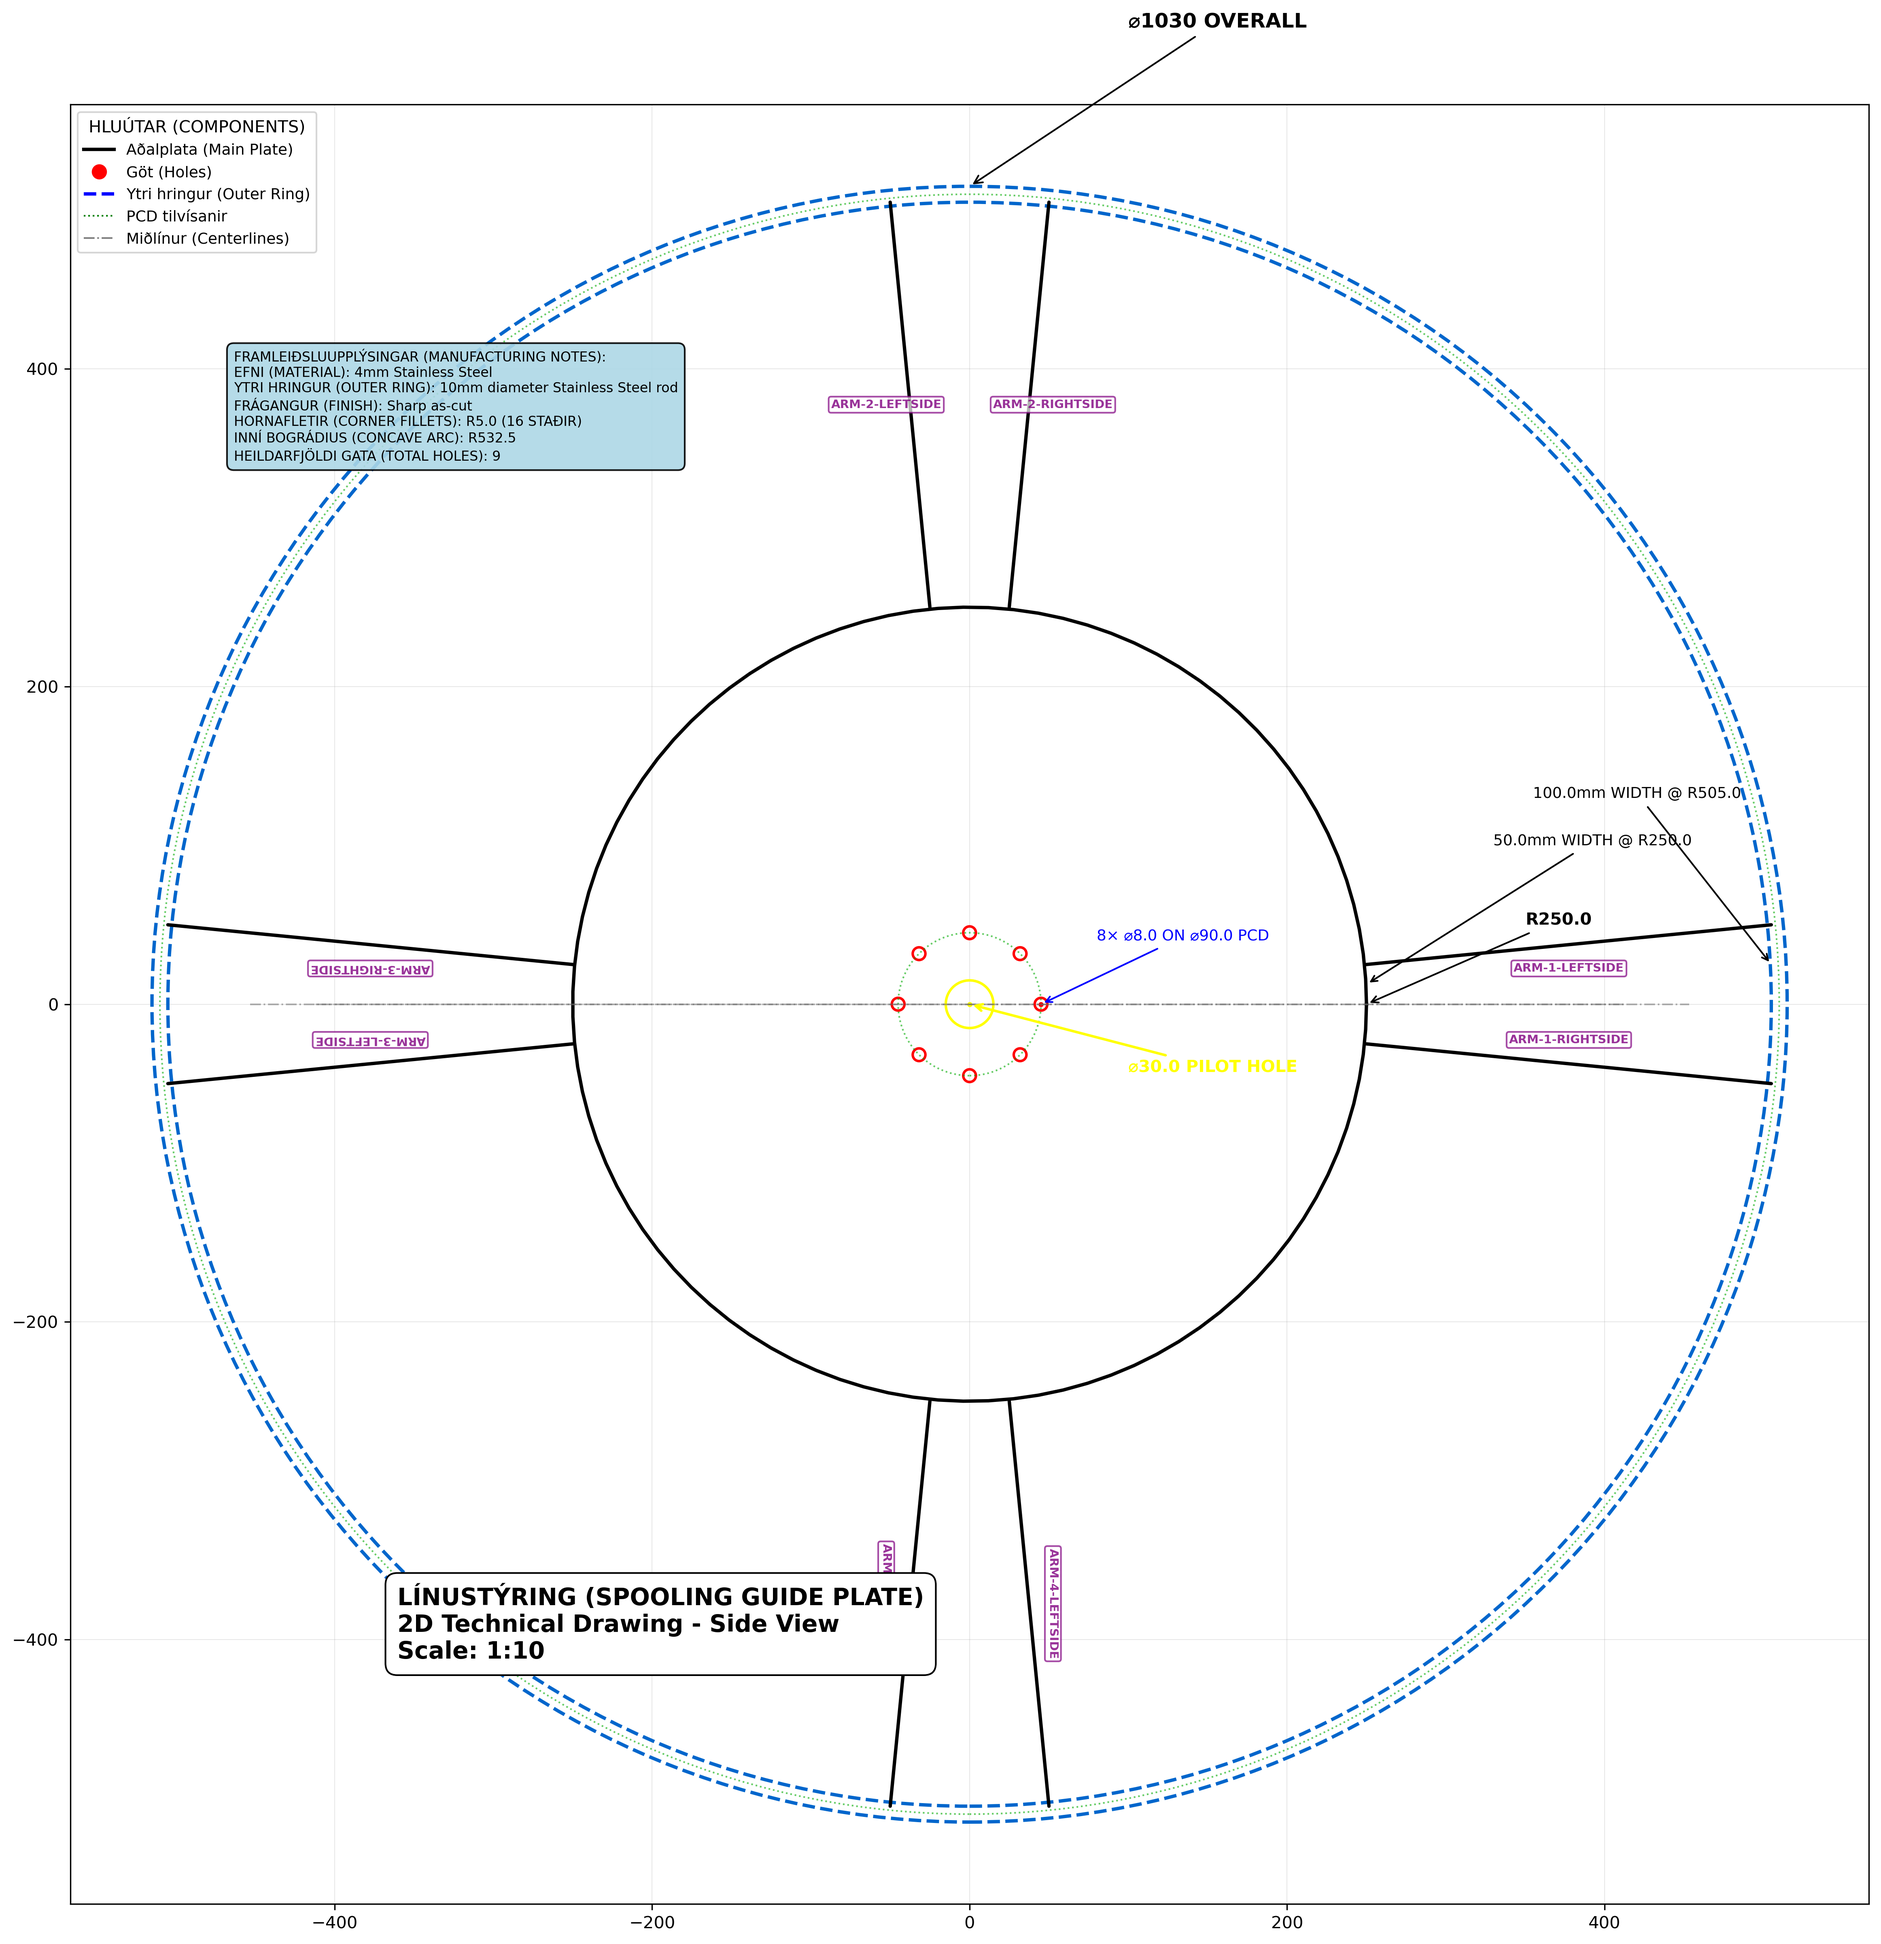
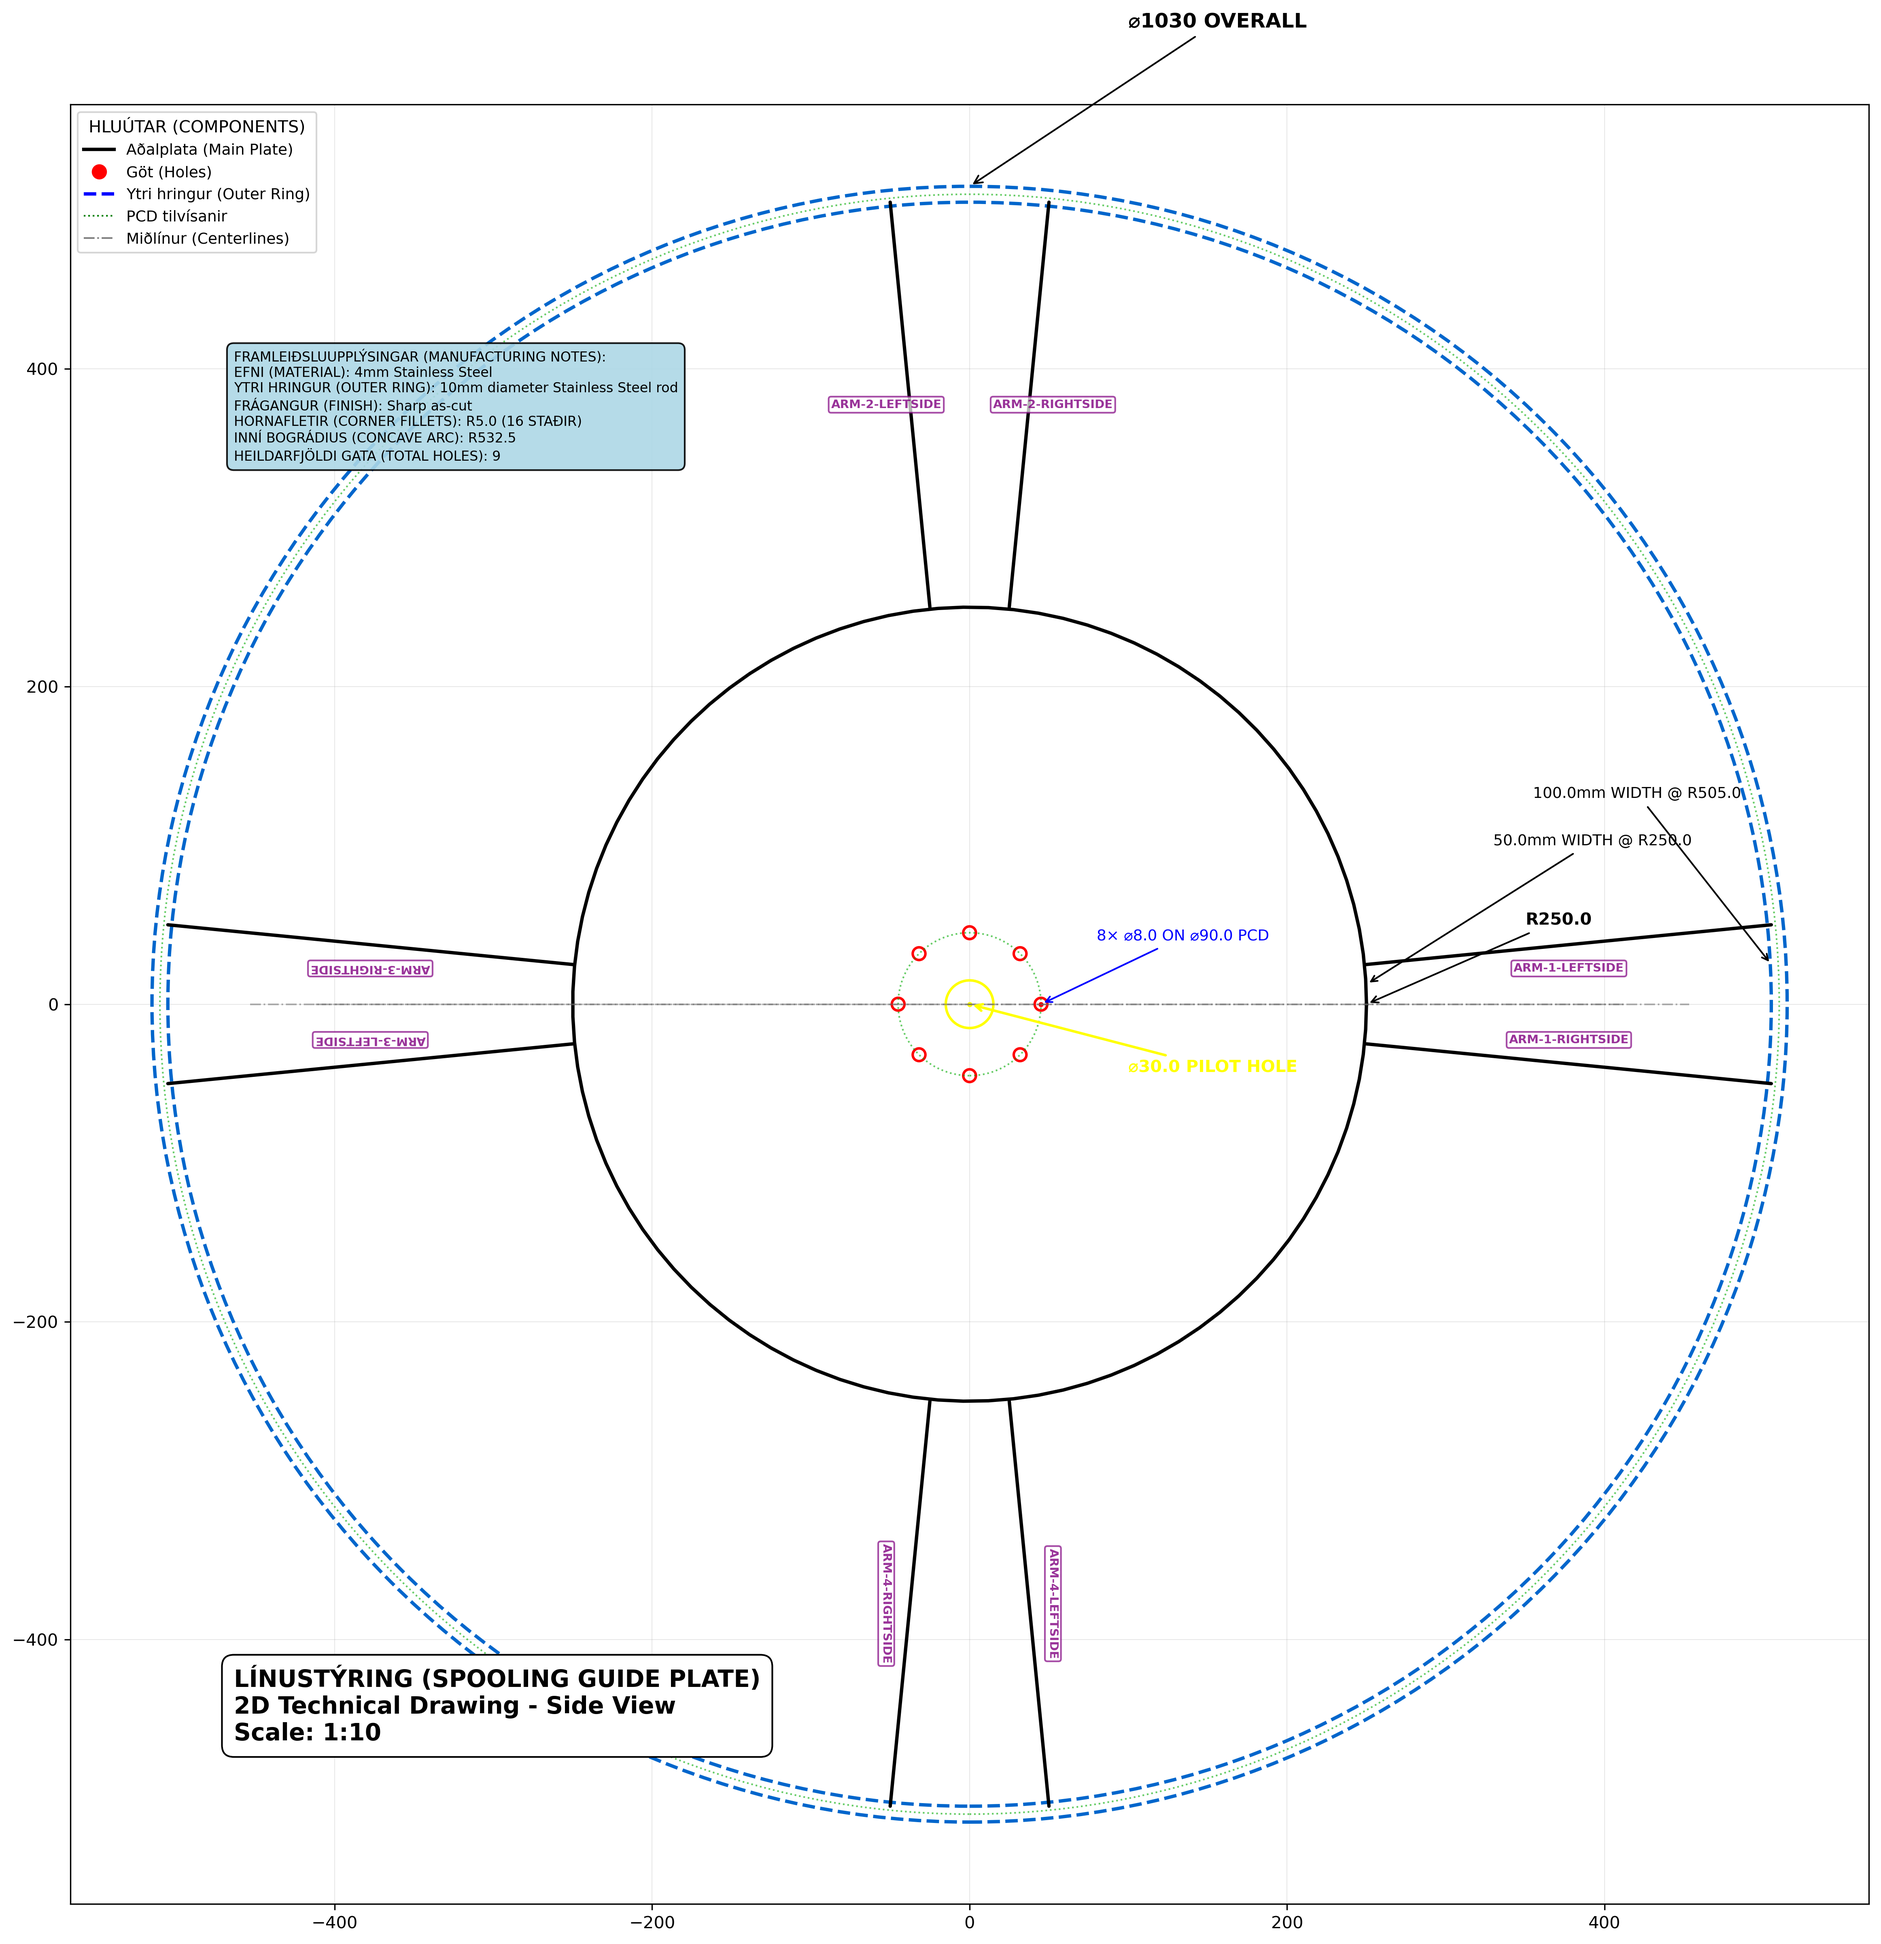
Move title block further down and further left
- Increased title_x multiplier from -0.7 to -0.9 (further left)
- Increased title_y multiplier from -0.8 to -0.9 (further down)
- Title block now positioned in far lower-left corner of drawing
- Maximum separation from main drawing content
- Provides clear title block placement in corner area

Changed region(s): [[0.1248, 0.8122, 0.4991, 0.9059]]

diff --git a/src/spooling_guide/annotations.py b/src/spooling_guide/annotations.py
@@ -134,8 +134,8 @@ def add_title_block(ax):
         ax: Matplotlib axes object
     """
     overall_dims = geom.calculate_overall_dimensions()
-    title_x = -overall_dims['overall_radius'] * 0.7  # Negative X for left side
-    title_y = -overall_dims['overall_radius'] * 0.8  # Negative Y for lower area
+    title_x = -overall_dims['overall_radius'] * 0.9  # Further left
+    title_y = -overall_dims['overall_radius'] * 0.9  # Further down
     
     ax.text(title_x, title_y, 
             f"{spec.DRAWING_TITLE}\n{spec.DRAWING_VIEW_NAME}\nScale: {spec.DRAWING_SCALE}",
